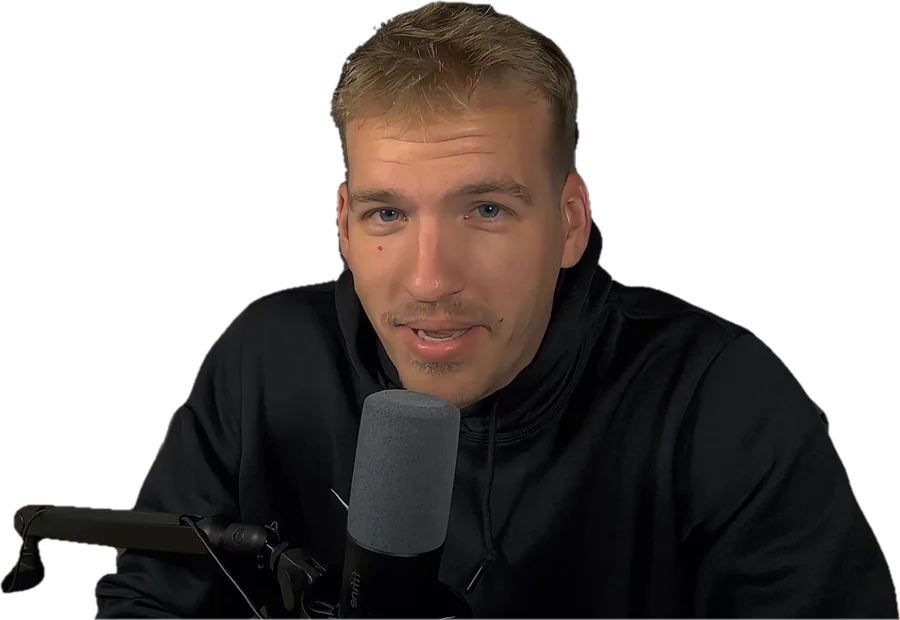
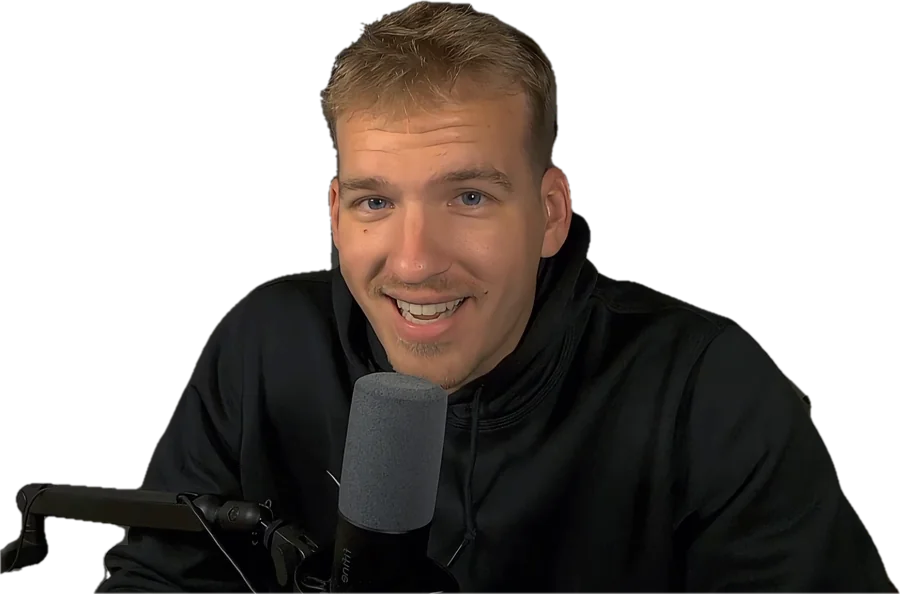
Wall mockup: smiling cutout from the Rooks take

diff --git a/index.html b/index.html
@@ -248,7 +248,7 @@
       <div>
         <div class="mock" aria-hidden="true">
           <div class="slot"><div>YOUR LOGO HERE<small>behind me in every take</small></div></div>
-          <img src="assets/luke-mic.webp" alt="" width="900" height="617">
+          <img src="assets/luke-mic.webp?v=2" alt="" width="900" height="594">
         </div>
         <div class="facts">
           <div><b>10+</b><span>talking-head videos a month</span></div>
